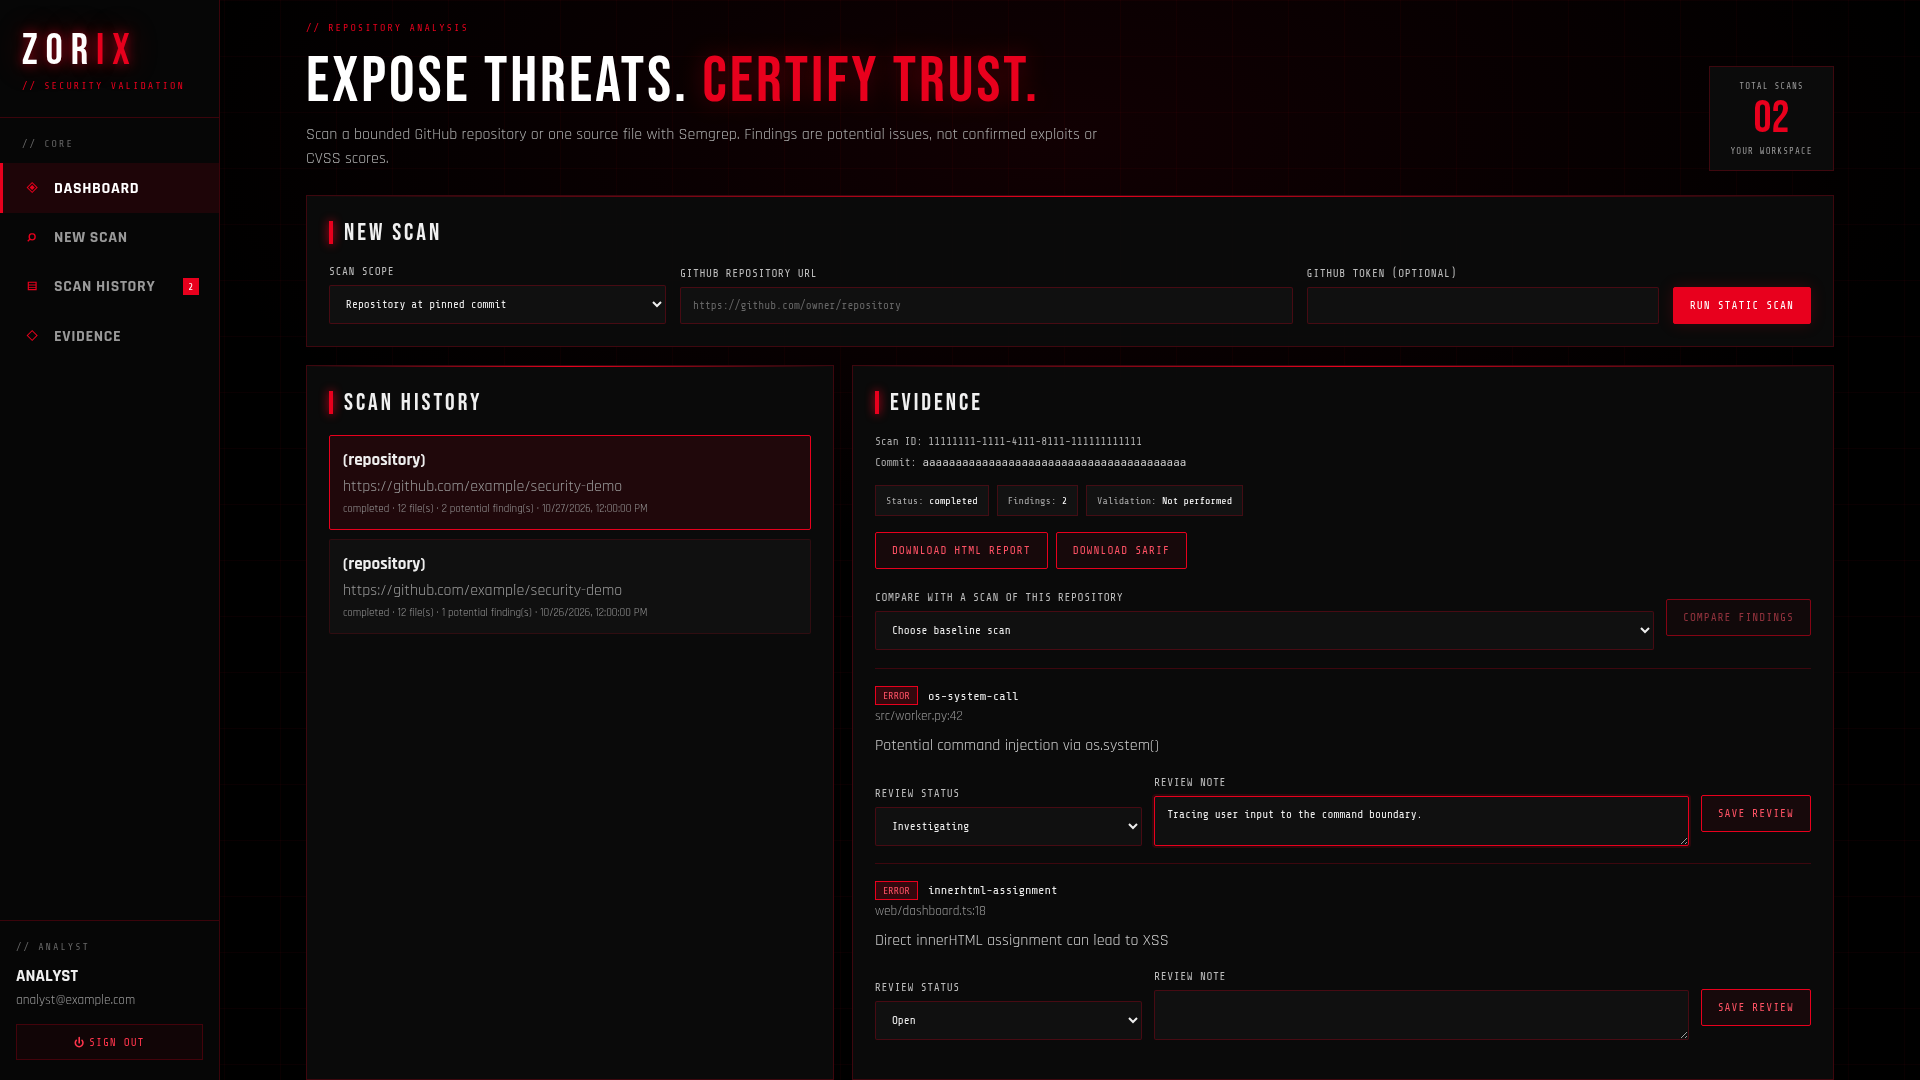
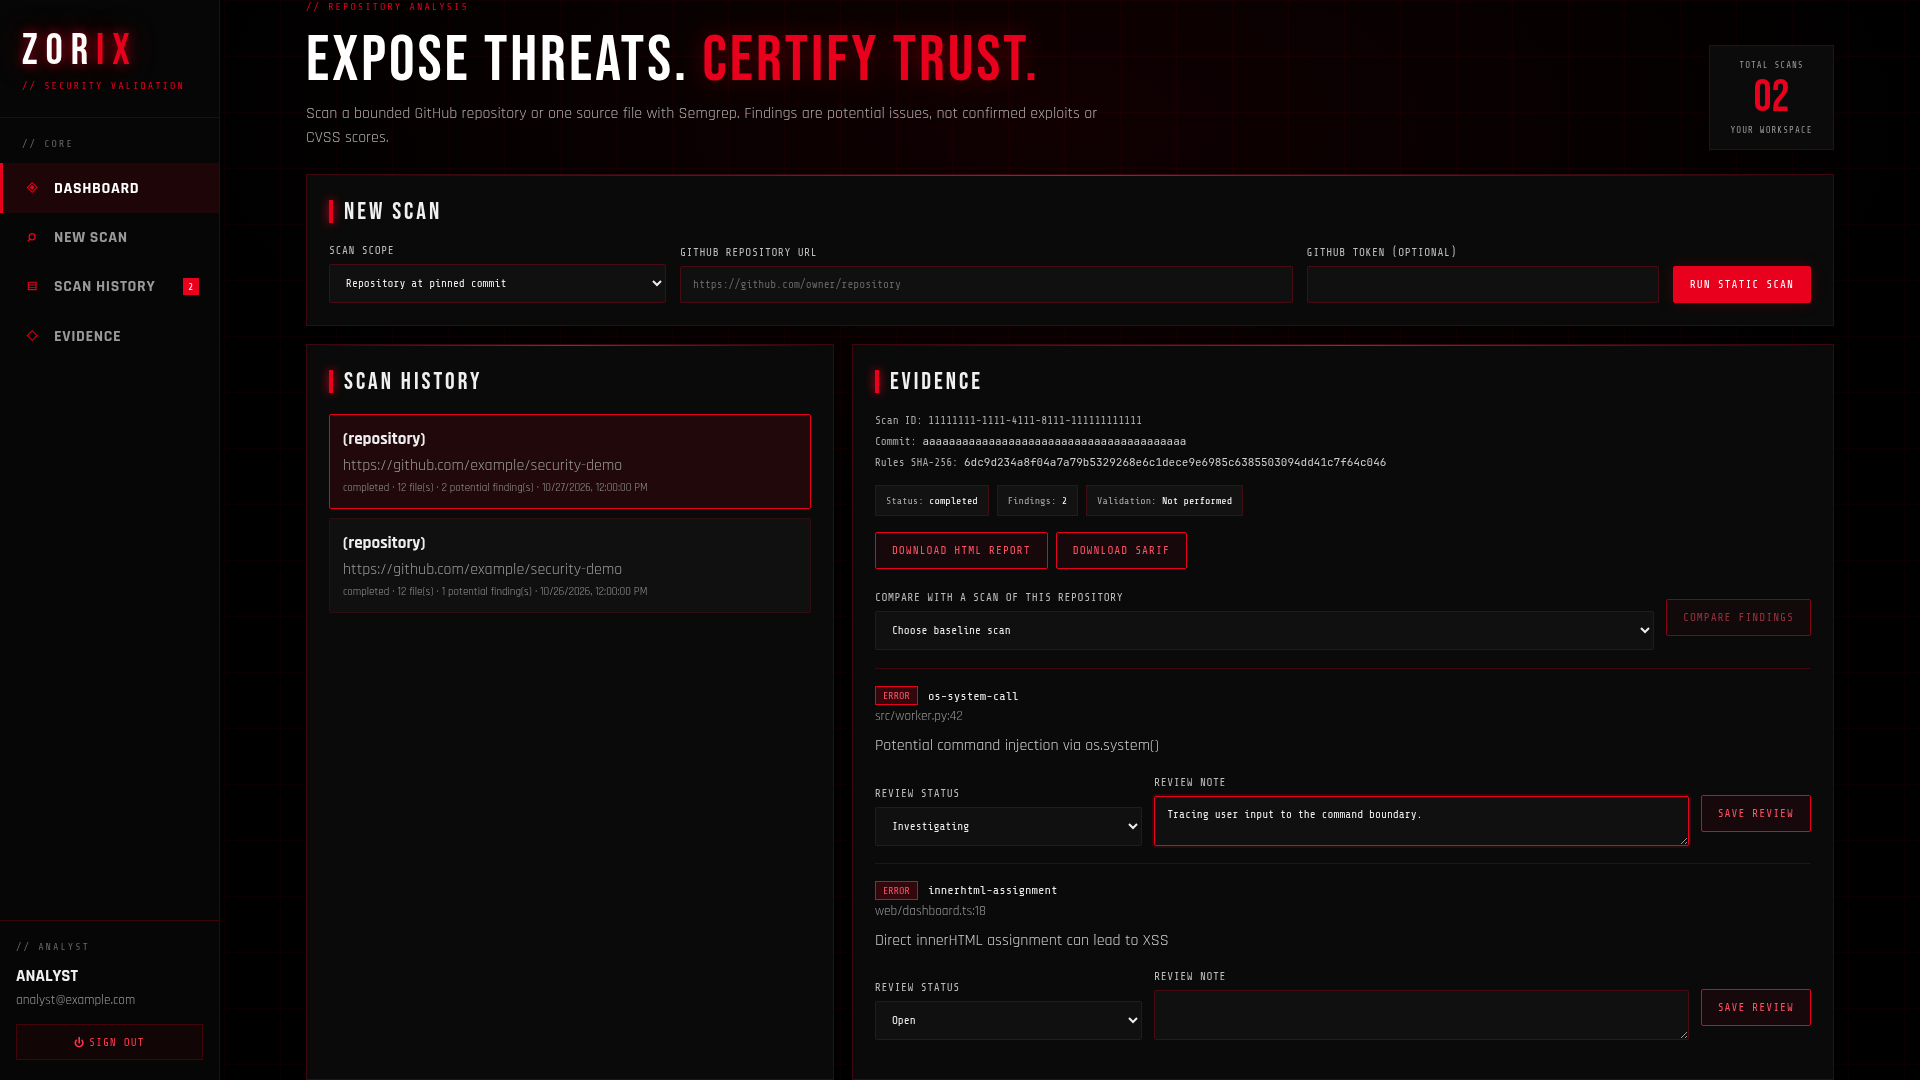
Record immutable rule fingerprints and guard scan comparisons

diff --git a/frontend/src/App.test.tsx b/frontend/src/App.test.tsx
@@ -53,7 +53,7 @@ describe('Zorix frontend', () => {
         : url.endsWith('/analysis/results/scan-1') ? { reviews: [] } : { results: [{
         id: 'scan-1', repository: 'https://github.com/example/project',
         affected_file: 'app.py', status: 'completed', finding_count: 1,
-        commit_sha: null, file_count: 1,
+        commit_sha: null, rules_sha256: 'c'.repeat(64), file_count: 1,
         created_at: '2026-01-01T00:00:00',
         findings: [{ rule_id: 'os-system-call', file: 'app.py', line: 2,
           severity: 'ERROR', message: 'Potential command injection' }],
@@ -68,6 +68,7 @@ describe('Zorix frontend', () => {
     expect(navigation.querySelector('a[href="#evidence"]')).toBeTruthy()
     expect(screen.getByText('Not performed')).toBeTruthy()
     expect(screen.getByText('os-system-call')).toBeTruthy()
+    expect(screen.getByText('c'.repeat(64))).toBeTruthy()
     expect(screen.getByRole('button', { name: 'Download SARIF' })).toBeTruthy()
     fireEvent.change(screen.getByLabelText('Review status'), { target: { value: 'false_positive' } })
     fireEvent.change(screen.getByLabelText('Review note'), { target: { value: 'Safe input' } })

diff --git a/frontend/src/App.tsx b/frontend/src/App.tsx
@@ -12,6 +12,7 @@ type Scan = {
   finding_count: number
   findings: Finding[]
   commit_sha: string | null
+  rules_sha256?: string | null
   file_count: number
   created_at: string
 }
@@ -258,6 +259,7 @@ export default function App() {
             {selected ? <>
               <p className="muted">Scan ID: {selected.id}</p>
               {selected.commit_sha && <p className="muted">Commit: <code>{selected.commit_sha}</code></p>}
+              {selected.rules_sha256 && <p className="muted">Rules SHA-256: <code>{selected.rules_sha256}</code></p>}
               <div className="summary"><span>Status: <strong>{selected.status}</strong></span><span>Findings: <strong>{selected.finding_count}</strong></span><span>Validation: <strong>Not performed</strong></span></div>
               <button className="secondary" onClick={() => void downloadReport(selected.id, 'html')}>Download HTML report</button>
               {selected.status === 'completed' && <button className="secondary" onClick={() => void downloadReport(selected.id, 'sarif')}>Download SARIF</button>}

diff --git a/tests/test_repository_analysis.py b/tests/test_repository_analysis.py
@@ -2,6 +2,7 @@
 
 import asyncio
 import base64
+import hashlib
 import os
 import sqlite3
 import subprocess
@@ -130,6 +131,8 @@ def test_semgrep_reports_real_rule_and_clean_file(monkeypatch):
     assert flagged["status"] == clean["status"] == "completed"
     assert any(item["rule_id"].endswith("os-system-call") for item in flagged["findings"])
     assert clean["findings"] == []
+    assert flagged["rules_sha256"] == clean["rules_sha256"] == hashlib.sha256(pipeline_module.RULES_PATH.read_bytes()).hexdigest()
+    assert any(item["rule_id"] == "os-system-call" for item in flagged["findings"])
 
 
 def test_single_file_fetch_uses_pinned_commit(monkeypatch):
@@ -231,6 +234,7 @@ def test_repository_semgrep_preserves_relative_paths(monkeypatch):
         pytest.skip("Local Semgrep executable is unavailable")
     result = repository_scanner.scan_files({"src/app.py": "import os\nos.system(user_input)\n"})
     assert result["status"] == "completed"
+    assert result["rules_sha256"] == hashlib.sha256(pipeline_module.RULES_PATH.read_bytes()).hexdigest()
     assert any(item["file"] == "src/app.py" for item in result["findings"])
 
 
@@ -252,6 +256,12 @@ def test_scan_comparison_tracks_duplicate_findings_and_failed_scans():
     assert changes["introduced_count"] == 1
     assert changes["resolved_count"] == 0
     assert changes["unchanged_count"] == 1
+    assert "could not be checked" in changes["note"]
+    with pytest.raises(ValueError, match="different rule sets"):
+        compare_findings(
+            {"status": "completed", "findings": [finding], "rules_sha256": "a" * 64},
+            {"status": "completed", "findings": [finding], "rules_sha256": "b" * 64},
+        )
     with pytest.raises(ValueError, match="completed"):
         compare_findings({"status": "error", "findings": []}, {"status": "completed", "findings": []})
 
@@ -272,7 +282,7 @@ def test_authentication_and_scan_ownership(tmp_path, monkeypatch):
 
         monkeypatch.setattr(pipeline_module, "fetch_source", fake_fetch)
         monkeypatch.setattr(pipeline_module, "run_semgrep", lambda source, filename: {
-            "status": "completed",
+            "status": "completed", "rules_sha256": "c" * 64,
             "findings": [{"rule_id": "os-system-call", "file": filename, "line": 2,
                           "severity": "ERROR", "message": "Potential <script>alert(1)</script>"}],
         })
@@ -315,6 +325,7 @@ def test_authentication_and_scan_ownership(tmp_path, monkeypatch):
                 assert body["score"] is None
                 assert body["findings"][0]["rule_id"] == "os-system-call"
                 assert body["commit_sha"] == "a" * 40
+                assert body["rules_sha256"] == "c" * 64
                 scan_id = body["analysis_id"]
                 repository_scan = await client.post("/api/analysis/repository", json={
                     "repo_url": "https://github.com/example/project"}, headers=alice)
@@ -362,11 +373,13 @@ def test_authentication_and_scan_ownership(tmp_path, monkeypatch):
                 report = await client.get(f"/api/analysis/reports/{scan_id}/html", headers=alice)
                 assert report.status_code == 200
                 assert b"Manual review" in report.content or b"manual review" in report.content
+                assert ("c" * 64).encode() in report.content
                 assert b"&lt;script&gt;" in report.content
                 assert b"<script>" not in report.content
                 sarif = await client.get(f"/api/analysis/reports/{scan_id}/sarif", headers=alice)
                 assert sarif.status_code == 200
                 assert sarif.json()["version"] == "2.1.0"
+                assert sarif.json()["runs"][0]["properties"]["rules_sha256"] == "c" * 64
                 sarif_result = sarif.json()["runs"][0]["results"][0]
                 assert sarif_result["ruleId"] == "os-system-call"
                 assert sarif_result["locations"][0]["physicalLocation"]["artifactLocation"]["uri"] == "app.py"

diff --git a/backend/services/pipeline_orchestrator.py b/backend/services/pipeline_orchestrator.py
@@ -6,6 +6,7 @@ exploitable vulnerability without a separate validation step.
 
 import asyncio
 import base64
+import hashlib
 import html
 import json
 import logging
@@ -111,12 +112,16 @@ async def fetch_source(owner: str, repo: str, path: str, token: str | None = Non
 def run_semgrep(source: str, filename: str) -> dict:
     """Run local Semgrep rules and return only evidence the tool emitted."""
     with tempfile.TemporaryDirectory(prefix="zorix-scan-") as tmp:
+        rules_bytes = RULES_PATH.read_bytes()
+        rules_snapshot = Path(tmp) / "rules.yaml"
+        rules_snapshot.write_bytes(rules_bytes)
+        rules_sha256 = hashlib.sha256(rules_bytes).hexdigest()
         target = Path(tmp) / Path(filename).name
         target.write_text(source, encoding="utf-8")
         try:
             process = subprocess.run(
-                [settings.SEMGREP_PATH, "scan", "--config", str(RULES_PATH),
-                 "--json", "--metrics=off", "--disable-version-check", "--quiet", str(target)],
+                [settings.SEMGREP_PATH, "scan", "--config", str(rules_snapshot),
+                 "--json", "--no-rewrite-rule-ids", "--metrics=off", "--disable-version-check", "--quiet", str(target)],
                 capture_output=True, text=True, timeout=90, check=False,
             )
         except FileNotFoundError:
@@ -139,7 +144,7 @@ def run_semgrep(source: str, filename: str) -> dict:
                 "severity": extra.get("severity", "INFO"),
                 "message": extra.get("message", ""),
             })
-        return {"status": "completed", "findings": findings}
+        return {"status": "completed", "findings": findings, "rules_sha256": rules_sha256}
 
 
 class VulnerabilityPipeline:
@@ -217,7 +222,8 @@ class VulnerabilityPipeline:
         db.add(result)
         await db.flush()
         evidence = {"status": scan["status"], **metadata,
-                    "findings": findings, "error": scan.get("error")}
+                    "findings": findings, "error": scan.get("error"),
+                    "rules_sha256": scan.get("rules_sha256")}
         db.add(ScanResult(
             analysis_result_id=result.id, scan_type="static", scanner_name="semgrep",
             finding_count=len(findings),
@@ -240,6 +246,7 @@ class VulnerabilityPipeline:
             f"<p>Repository: {html.escape(canonical_url)}<br>Scope: {html.escape(path)}"
             f"<br>Commit SHA: {html.escape(metadata.get('commit_sha', 'not pinned for single-file scan'))}"
             f"<br>GitHub blob SHA: {html.escape(metadata.get('blob_sha', 'see stored scan evidence'))}"
+            f"<br>Rules SHA-256: {html.escape(scan.get('rules_sha256') or 'not recorded')}"
             f"<br>Files scanned: {metadata['file_count']}<br>Scanner: {html.escape(scan['status'])}</p>"
             "<table border='1'><tr><th>Rule</th><th>Location</th><th>Severity</th><th>Message</th></tr>"
             f"{rows}</table>", encoding="utf-8",
@@ -257,4 +264,5 @@ class VulnerabilityPipeline:
             "vulnerable": None, "exploits_tested": 0, "vulnerabilities_confirmed": 0,
             "confidence_score": None, "findings": findings, "error": scan.get("error"),
             "commit_sha": metadata.get("commit_sha"), "file_count": metadata["file_count"],
+            "rules_sha256": scan.get("rules_sha256"),
         }

diff --git a/backend/services/repository_scanner.py b/backend/services/repository_scanner.py
@@ -1,6 +1,7 @@
 """Bounded, commit-pinned GitHub repository snapshots and Semgrep scans."""
 
 import base64
+import hashlib
 import json
 import re
 import subprocess
@@ -106,7 +107,12 @@ async def fetch_repository_snapshot(owner: str, repo: str, token: str | None = N
 def scan_files(files: dict[str, str]) -> dict:
     """Run one local Semgrep process over a bounded source snapshot."""
     with tempfile.TemporaryDirectory(prefix="zorix-repo-") as tmp:
-        root = Path(tmp)
+        rules_bytes = RULES_PATH.read_bytes()
+        rules_snapshot = Path(tmp) / "rules.yaml"
+        rules_snapshot.write_bytes(rules_bytes)
+        rules_sha256 = hashlib.sha256(rules_bytes).hexdigest()
+        root = Path(tmp) / "source"
+        root.mkdir()
         for name, source in files.items():
             if not _safe_source_path(name):
                 raise ValueError("Unsafe repository source path")
@@ -115,8 +121,8 @@ def scan_files(files: dict[str, str]) -> dict:
             target.write_text(source, encoding="utf-8")
         try:
             process = subprocess.run(
-                [get_settings().SEMGREP_PATH, "scan", "--config", str(RULES_PATH), "--json",
-                 "--metrics=off", "--disable-version-check", "--quiet", str(root)],
+                [get_settings().SEMGREP_PATH, "scan", "--config", str(rules_snapshot), "--json",
+                 "--no-rewrite-rule-ids", "--metrics=off", "--disable-version-check", "--quiet", str(root)],
                 capture_output=True, text=True, timeout=120, check=False,
             )
         except FileNotFoundError:
@@ -143,4 +149,4 @@ def scan_files(files: dict[str, str]) -> dict:
                              "line": item.get("start", {}).get("line"),
                              "severity": extra.get("severity", "INFO"),
                              "message": extra.get("message", "")})
-        return {"status": "completed", "findings": findings}
+        return {"status": "completed", "findings": findings, "rules_sha256": rules_sha256}

diff --git a/backend/services/scan_comparison.py b/backend/services/scan_comparison.py
@@ -7,6 +7,9 @@ from collections import Counter
 def compare_findings(current: dict, baseline: dict) -> dict:
     if current.get("status") != "completed" or baseline.get("status") != "completed":
         raise ValueError("Both scans must have completed successfully")
+    current_rules, baseline_rules = current.get("rules_sha256"), baseline.get("rules_sha256")
+    if current_rules and baseline_rules and current_rules != baseline_rules:
+        raise ValueError("Scans used different rule sets; rescan with the same rules before comparing")
     current_findings = current.get("findings", [])
     baseline_findings = baseline.get("findings", [])
     current_counts = Counter(json.dumps(finding, sort_keys=True) for finding in current_findings)
@@ -19,5 +22,7 @@ def compare_findings(current: dict, baseline: dict) -> dict:
         "unchanged_count": sum((current_counts & baseline_counts).values()),
         "introduced_count": len(introduced),
         "resolved_count": len(resolved),
-        "note": "Changes in static findings require manual review; they do not prove a vulnerability was fixed or introduced.",
+        "note": "Changes in static findings require manual review; they do not prove a vulnerability was fixed or introduced."
+        + (" Rule fingerprints were not recorded for one or both scans; rule consistency could not be checked."
+           if not current_rules or not baseline_rules else ""),
     }

diff --git a/backend/api/routes/analysis.py b/backend/api/routes/analysis.py
@@ -149,6 +149,7 @@ async def get_all_results(
             "finding_count": scan.finding_count if scan else 0,
             "findings": evidence.get("findings", []),
             "commit_sha": evidence.get("commit_sha"),
+            "rules_sha256": evidence.get("rules_sha256"),
             "file_count": evidence.get("file_count", 1),
             "cvss_score": None,
             "severity": "UNVERIFIED" if scan and scan.finding_count else "UNKNOWN",
@@ -185,6 +186,7 @@ async def get_analysis_results(
                      "note": review.note, "updated_at": review.updated_at.isoformat()}
                     for review in reviews],
         "commit_sha": evidence.get("commit_sha"),
+        "rules_sha256": evidence.get("rules_sha256"),
         "file_count": evidence.get("file_count", 1),
         "cvss_score": None,
         "report_url": f"/api/analysis/reports/{analysis_id}/html",

diff --git a/backend/services/sarif_export.py b/backend/services/sarif_export.py
@@ -33,6 +33,7 @@ def build_sarif(evidence: dict) -> dict:
             "tool": {"driver": {"name": "Zorix Semgrep", "rules": rules}},
             "originalUriBaseIds": {"%SRCROOT%": {"uri": "file:///repo/"}},
             "results": results,
-            "properties": {"commit_sha": evidence.get("commit_sha")},
+            "properties": {"commit_sha": evidence.get("commit_sha"),
+                           "rules_sha256": evidence.get("rules_sha256")},
         }],
     }

diff --git a/README.md b/README.md
@@ -110,6 +110,8 @@ GitHub fetching has a 60-second overall deadline. Semgrep has a separate 90-seco
 
 Semgrep results retain the rule ID, file, line, severity, and message. A match is not proof of reachability or exploitability. A scan with zero matches does not prove the code is secure. Read [project scope and portfolio evidence](docs/PROJECT_SCOPE.md) for a role-by-role view of what this project demonstrates.
 
+New completed scans also record the SHA-256 fingerprint of the exact rule file copied into the scan workspace. The fingerprint appears in the evidence view, HTML report, and SARIF properties. Comparisons reject scans with different recorded rule fingerprints. Older scans remain readable; comparisons involving missing fingerprints explicitly say that rule consistency could not be checked. Rule IDs remain stable across temporary workspace paths.
+
 ## Security, briefly
 
 - GitHub URLs and paths are checked before fetching. Repository scans fetch specific blob SHAs rather than following a moving branch during the scan.
